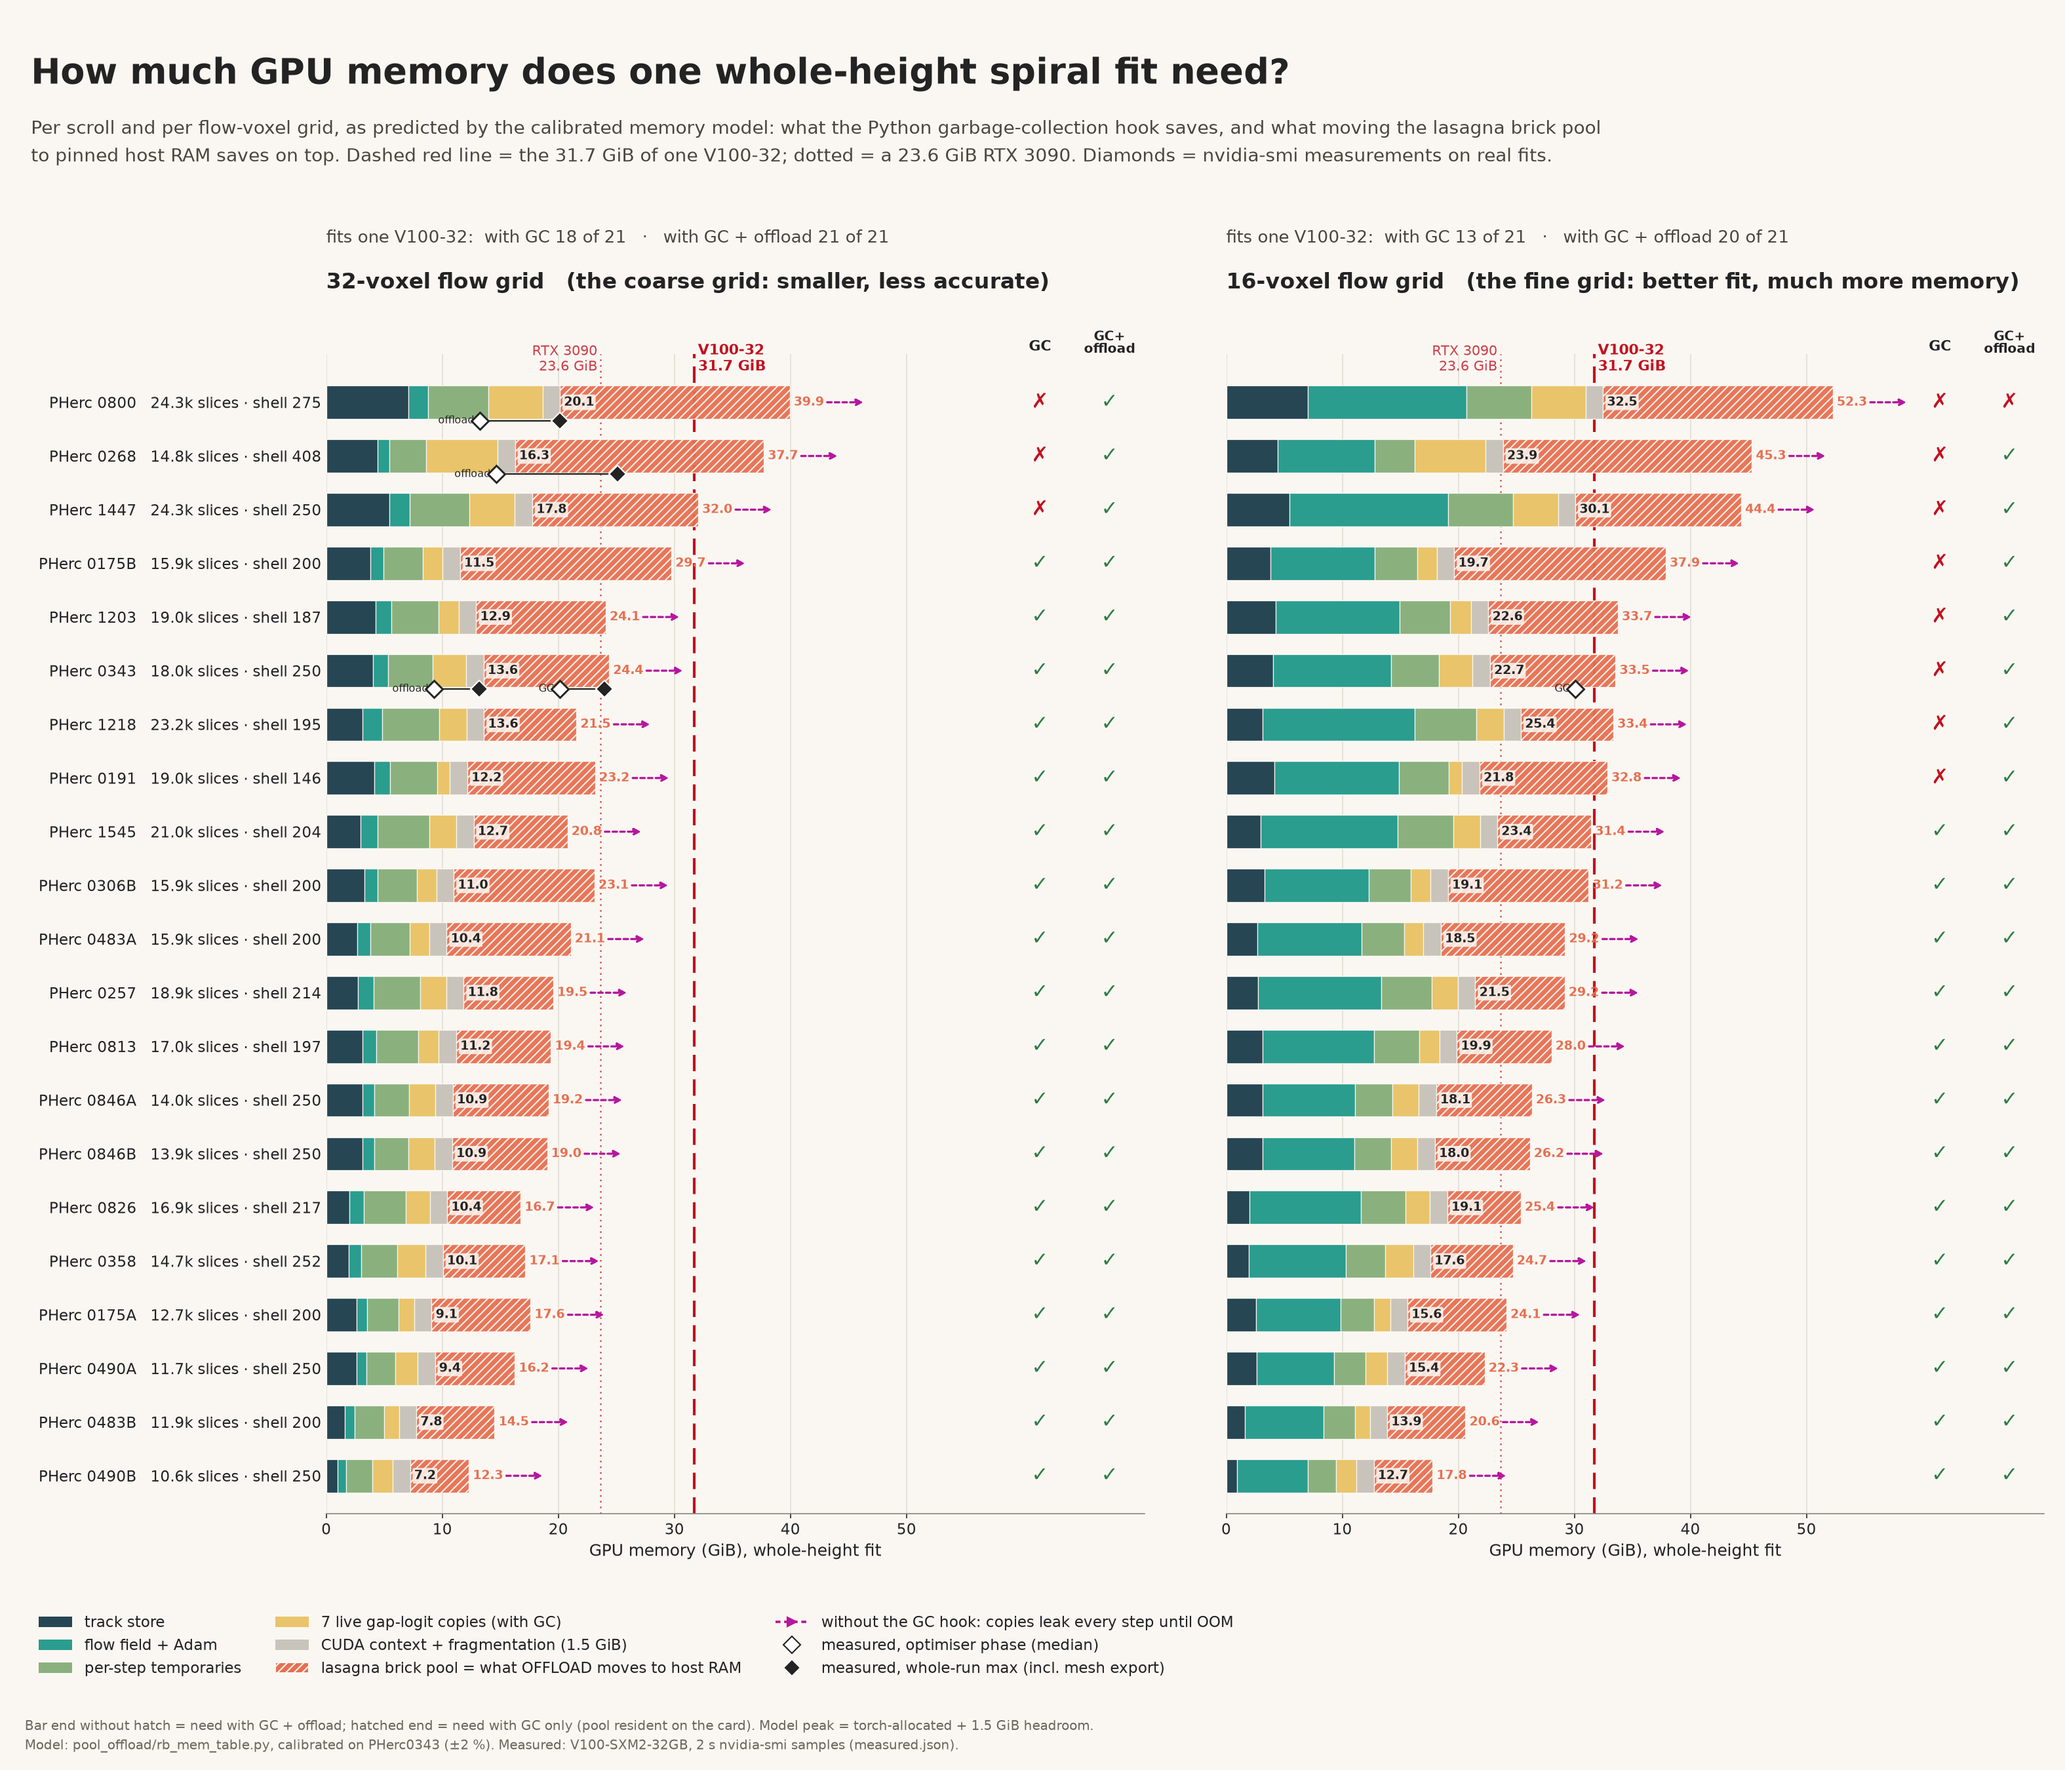
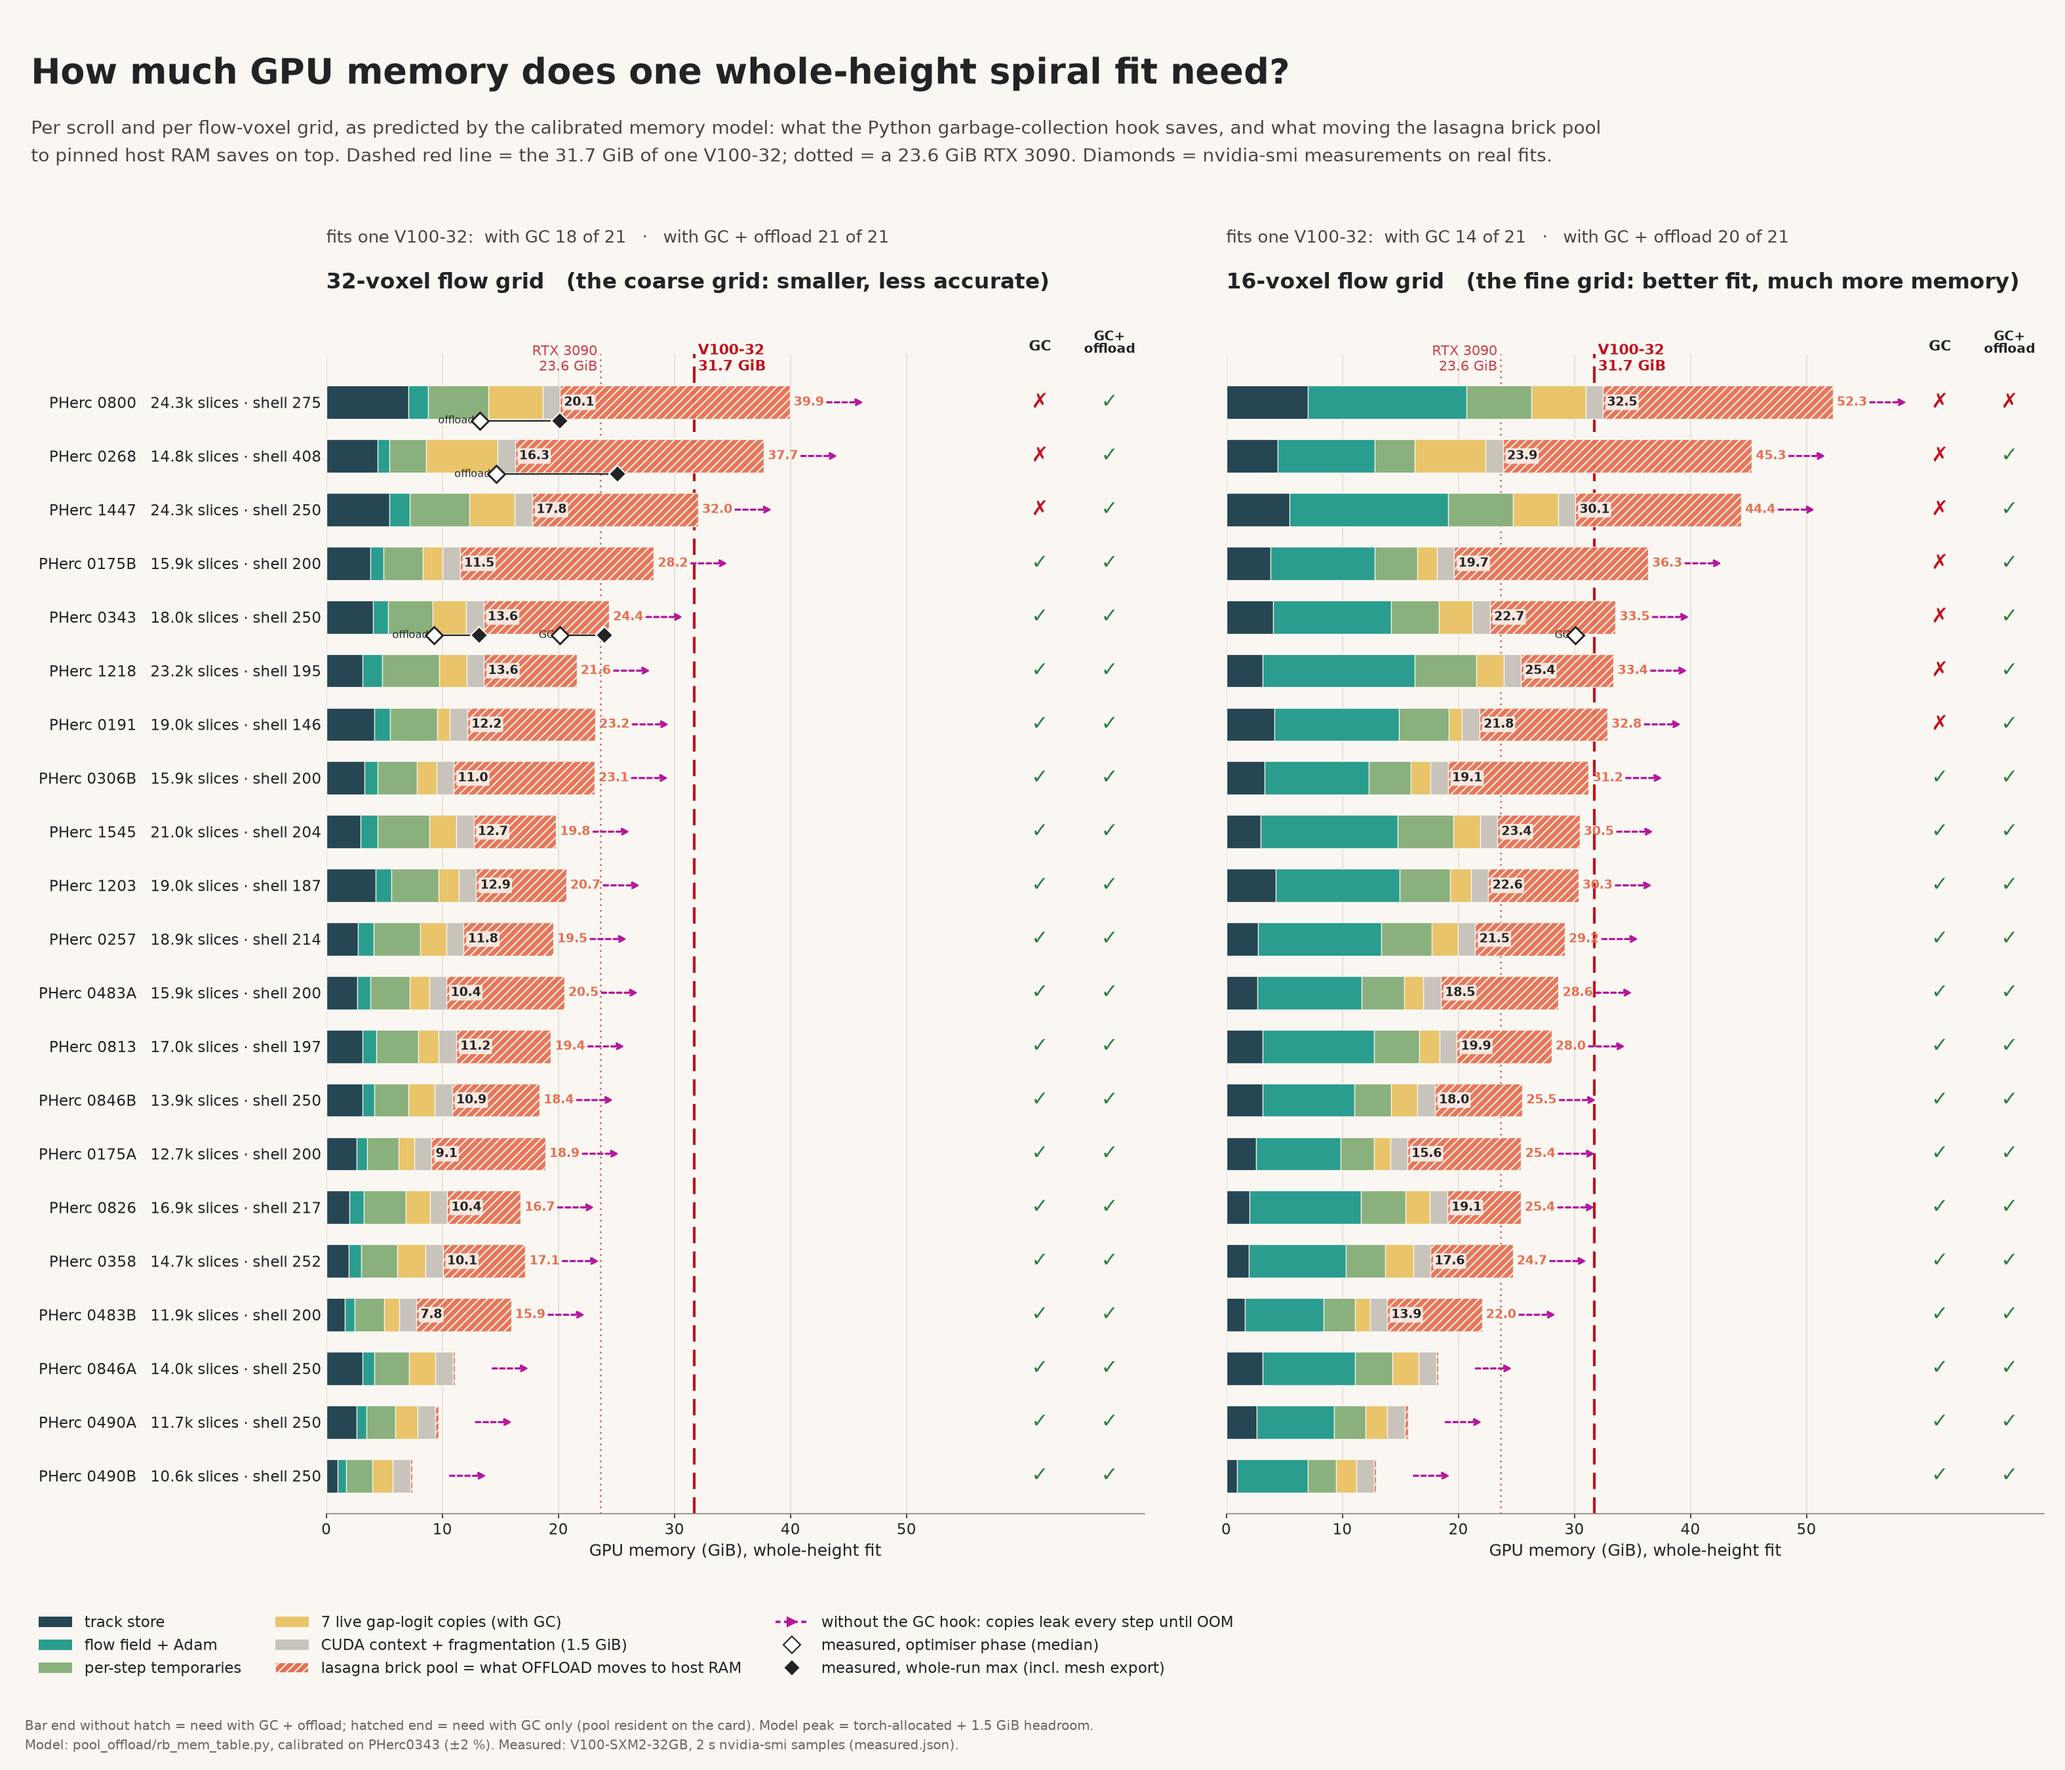
Use the measured lasagna pool sizes in the VRAM table; state what is measured and what is modelled
Claude-Session: https://claude.ai/code/session_0138LanbQgDJ4o1uV3upw4Fh

diff --git a/spiral-fitting/pool_offload/rb_mem_table.py b/spiral-fitting/pool_offload/rb_mem_table.py
@@ -50,27 +50,27 @@ def max_h(card, shell, r, pool_per_k, tracks_per_k):
 GiB = 2 ** 30
 SCROLLS = {
     # name: (H, shell, shell_source, pool_full_GiB, pool_source, cached_points_13000, it_per_s_box48)
-    "PHerc0175A": (12748, 200, "box default (not measured)", 142412 * 65536 / GiB * 12748 / 13000, "box packed x H/13000", 108880491, 3.9),
-    "PHerc0175B": (15897, 200, "box default (not measured)", 244005 * 65536 / GiB * 15897 / 13000, "box packed x H/13000", 128981872, 6.0),
+    "PHerc0175A": (12748, 200, "box default (not measured)", 9.79, "142 respool (measured file size)", 108880491, 3.9),
+    "PHerc0175B": (15897, 200, "box default (not measured)", 16.69, "142 respool (measured file size)", 128981872, 6.0),
     "PHerc0191": (18977, 146, "fits", 11.01, "142 respool", 117483137, 8.1),
     "PHerc0257": (18872, 214, "fits", 7.70, "142 respool", 77441982, 7.2),
     "PHerc0268": (14833, 408, "fits", 21.43, "142 respool", 159525449, 4.6),
     "PHerc0306B": (15898, 200, "box default (not measured)", 162412 * 65536 / GiB * 15898 / 13000, "box packed x H/13000", 110838913, 5.3),
     "PHerc0343": (17998, 250, "fits", 10.81, "142 respool (9.58 loaded for z 1200-17500)", None, None),
     "PHerc0358": (14744, 252, "fits", 7.09, "142 respool", 70785547, 5.6),
-    "PHerc0483A": (15898, 200, "box default (not measured)", 143172 * 65536 / GiB * 15898 / 13000, "box packed x H/13000", 90273138, 6.0),
-    "PHerc0483B": (11880, 200, "box default (not measured)", 120777 * 65536 / GiB * 11880 / 13000, "box packed x H/13000", 72811322, 7.2),
-    "PHerc0490A": (11698, 250, "fits (sense unknown)", None, "no store measured", None, None),
-    "PHerc0490B": (10648, 250, "fits (sense unknown)", 101238 * 65536 / GiB * 10648 / 13000, "box packed x H/13000", 47716502, 7.7),
+    "PHerc0483A": (15898, 200, "box default (not measured)", 10.13, "142 respool (measured file size)", 90273138, 6.0),
+    "PHerc0483B": (11880, 200, "box default (not measured)", 8.16, "142 respool (measured file size)", 72811322, 7.2),
+    "PHerc0490A": (11698, 250, "fits (sense unknown)", 0.29, "142 respool (measured file size)", None, None),
+    "PHerc0490B": (10648, 250, "fits (sense unknown)", 0.21, "142 respool (measured file size)", 47716502, 7.7),
     "PHerc0800": (24298, 275, "fits", 19.80, "142 respool", 155951965, 5.0),
     "PHerc0813": (16993, 197, "fits", 8.15, "142 respool", 98716648, 6.6),
     "PHerc0826": (16920, 217, "fits", 6.32, "142 respool", 64004220, 5.3),
-    "PHerc0846A": (14019, 250, "fits (sense unknown)", None, "no store measured", None, None),
-    "PHerc0846B": (13926, None, "none (no fit yet)", None, "no store measured", None, None),
-    "PHerc1203": (18977, 187, "queue", None, "no store measured", None, None),
-    "PHerc1218": (23247, 195, "queue (box used 200)", 72892 * 65536 / GiB * 23247 / 13000, "box packed x H/13000", 72842567, 6.5),
+    "PHerc0846A": (14019, 250, "fits (sense unknown)", 0.18, "142 respool (measured file size)", None, None),
+    "PHerc0846B": (13926, None, "none (no fit yet)", 7.53, "142 respool (measured file size)", None, None),
+    "PHerc1203": (18977, 187, "queue", 7.75, "142 respool (measured file size)", None, None),
+    "PHerc1218": (23247, 195, "queue (box used 200)", 7.98, "142 respool (measured file size)", 72842567, 6.5),
     "PHerc1447": (24297, None, "none (no fit yet)", None, "no store measured", None, None),
-    "PHerc1545": (20961, 204, "queue (box used 200)", 82097 * 65536 / GiB * 20961 / 13000, "box packed x H/13000", 75676636, 6.0),
+    "PHerc1545": (20961, 204, "queue (box used 200)", 7.09, "142 respool (measured file size)", 75676636, 6.0),
 }
 DEFAULT_POOL_PER_K = 9.58 / 16.3            # 343 measured, GiB per 1000 slices (used where no store was measured; announced)
 DEFAULT_TRACK_PER_K = 3.66 / 16.3

diff --git a/spiral-fitting/pool_offload/vram_table_public.md b/spiral-fitting/pool_offload/vram_table_public.md
@@ -1,23 +1,23 @@
 | scroll | slices | shell | pool GiB | 32-vox: no GC (OOM at iteration, model) | 32-vox GC GiB | 32-vox GC+offload GiB | 16-vox: no GC (OOM at iteration, model) | 16-vox GC GiB | 16-vox GC+offload GiB | fits V100-32 (32-vox: GC / GC+off; 16-vox: GC / GC+off) |
 |---|---|---|---|---|---|---|---|---|---|---|
-| PHerc0175A | 12,748 | 200 | 8.5 | ~38 | 17.6 | 9.1 | ~21 | 24.1 | 15.6 | ✓ / ✓; ✓ / ✓ |
-| PHerc0175B | 15,897 | 200 | 18.2 | ~5 | 29.7 | 11.5 | never starts | 37.9 | 19.7 | ✓ / ✓; ✗ / ✓ |
+| PHerc0175A | 12,748 | 200 | 9.8 | ~35 | 18.9 | 9.1 | ~18 | 25.4 | 15.6 | ✓ / ✓; ✓ / ✓ |
+| PHerc0175B | 15,897 | 200 | 16.7 | ~9 | 28.2 | 11.5 | never starts | 36.3 | 19.7 | ✓ / ✓; ✗ / ✓ |
 | PHerc0191 | 18,977 | 146 | 11.0 | ~29 | 23.2 | 12.2 | never starts | 32.8 | 21.8 | ✓ / ✓; ✗ / ✓ |
 | PHerc0257 | 18,872 | 214 | 7.7 | ~20 | 19.5 | 11.8 | ~5 | 29.2 | 21.5 | ✓ / ✓; ✓ / ✓ |
 | PHerc0268 | 14,833 | 408 | 21.4 | never starts | 37.7 | 16.3 | never starts | 45.3 | 23.9 | ✗ / ✓; ✗ / ✓ |
 | PHerc0306B | 15,898 | 200 | 12.1 | ~19 | 23.1 | 11.0 | ~2 | 31.2 | 19.1 | ✓ / ✓; ✓ / ✓ |
 | PHerc0343 | 17,998 | 250 | 10.8 | ~10 | 24.4 | 13.6 | never starts | 33.5 | 22.7 | ✓ / ✓; ✗ / ✓ |
 | PHerc0358 | 14,744 | 252 | 7.1 | ~22 | 17.1 | 10.1 | ~11 | 24.7 | 17.6 | ✓ / ✓; ✓ / ✓ |
-| PHerc0483A | 15,898 | 200 | 10.7 | ~23 | 21.1 | 10.4 | ~6 | 29.2 | 18.5 | ✓ / ✓; ✓ / ✓ |
-| PHerc0483B | 11,880 | 200 | 6.7 | ~49 | 14.5 | 7.8 | ~32 | 20.6 | 13.9 | ✓ / ✓; ✓ / ✓ |
-| PHerc0490A | 11,698 | 250 | 6.9 | ~30 | 16.2 | 9.4 | ~18 | 22.3 | 15.4 | ✓ / ✓; ✓ / ✓ |
-| PHerc0490B | 10,648 | 250 | 5.1 | ~40 | 12.3 | 7.2 | ~29 | 17.8 | 12.7 | ✓ / ✓; ✓ / ✓ |
+| PHerc0483A | 15,898 | 200 | 10.1 | ~24 | 20.5 | 10.4 | ~8 | 28.6 | 18.5 | ✓ / ✓; ✓ / ✓ |
+| PHerc0483B | 11,880 | 200 | 8.2 | ~45 | 15.9 | 7.8 | ~28 | 22.0 | 13.9 | ✓ / ✓; ✓ / ✓ |
+| PHerc0490A | 11,698 | 250 | 0.3 | ~42 | 9.7 | 9.4 | ~31 | 15.7 | 15.4 | ✓ / ✓; ✓ / ✓ |
+| PHerc0490B | 10,648 | 250 | 0.2 | ~50 | 7.4 | 7.2 | ~39 | 12.9 | 12.7 | ✓ / ✓; ✓ / ✓ |
 | PHerc0800 | 24,298 | 275 | 19.8 | never starts | 39.9 | 20.1 | never starts | 52.3 | 32.5 | ✗ / ✓; ✗ / ✗ |
 | PHerc0813 | 16,993 | 197 | 8.2 | ~26 | 19.4 | 11.2 | ~9 | 28.0 | 19.9 | ✓ / ✓; ✓ / ✓ |
 | PHerc0826 | 16,920 | 217 | 6.3 | ~26 | 16.7 | 10.4 | ~12 | 25.4 | 19.1 | ✓ / ✓; ✓ / ✓ |
-| PHerc0846A | 14,019 | 250 | 8.2 | ~20 | 19.2 | 10.9 | ~9 | 26.3 | 18.1 | ✓ / ✓; ✓ / ✓ |
-| PHerc0846B | 13,926 | 250 | 8.2 | ~21 | 19.0 | 10.9 | ~10 | 26.2 | 18.0 | ✓ / ✓; ✓ / ✓ |
-| PHerc1203 | 18,977 | 187 | 11.2 | ~16 | 24.1 | 12.9 | never starts | 33.7 | 22.6 | ✓ / ✓; ✗ / ✓ |
-| PHerc1218 | 23,247 | 195 | 8.0 | ~16 | 21.5 | 13.6 | never starts | 33.4 | 25.4 | ✓ / ✓; ✗ / ✓ |
+| PHerc0846A | 14,019 | 250 | 0.2 | ~33 | 11.1 | 10.9 | ~22 | 18.3 | 18.1 | ✓ / ✓; ✓ / ✓ |
+| PHerc0846B | 13,926 | 250 | 7.5 | ~22 | 18.4 | 10.9 | ~11 | 25.5 | 18.0 | ✓ / ✓; ✓ / ✓ |
+| PHerc1203 | 18,977 | 187 | 7.8 | ~23 | 20.7 | 12.9 | ~4 | 30.3 | 22.6 | ✓ / ✓; ✓ / ✓ |
+| PHerc1218 | 23,247 | 195 | 8.0 | ~16 | 21.6 | 13.6 | never starts | 33.4 | 25.4 | ✓ / ✓; ✗ / ✓ |
 | PHerc1447 | 24,297 | 250 | 14.3 | never starts | 32.0 | 17.8 | never starts | 44.4 | 30.1 | ✗ / ✓; ✗ / ✓ |
-| PHerc1545 | 20,961 | 204 | 8.1 | ~18 | 20.8 | 12.7 | ~1 | 31.4 | 23.4 | ✓ / ✓; ✓ / ✓ |
+| PHerc1545 | 20,961 | 204 | 7.1 | ~19 | 19.8 | 12.7 | ~3 | 30.5 | 23.4 | ✓ / ✓; ✓ / ✓ |

diff --git a/spiral-fitting/POOL_OFFLOAD.md b/spiral-fitting/POOL_OFFLOAD.md
@@ -20,6 +20,7 @@ allows `cuMemHostRegister` (the pool maps its page-locked memory into the card's
 
 ## What is measured, and where (provenance, stated plainly)
 
+* **What in the table is measured and what is modelled** (2026-11-16 audit): MEASURED are the lasagna brick pool sizes (the on-disk size of each scroll's respooled pool, `channel_0.u8` + `channel_1.u8`, 20 scrolls; an earlier version of this table used an estimate for 11 of them, which was off by up to 25x for PHerc0490B: 5.1 GiB estimated, 0.21 GiB measured), the scroll heights, and the five whole-height fits in `measured.json`. MODELLED are every per-scroll peak (the coefficients are calibrated on one scroll, PHerc0343), the track term of every scroll but PHerc0343 (cached points scaled from a 13,000-slice log; not re-measured), the shell index of the scrolls marked "not measured", and the number of iterations until a fit without the GC fix runs out of memory. Rows for scrolls without a measured pool (PHerc0306B, PHerc1447) are modelled from the PHerc0343 density and say so in `notes`.
 * **Per-scroll tables and chart** (`pool_offload/vram_table_public.md`, `vram_chart_public.png`): the memory model
   `peak = pool + tracks + flow*(H+320)/1000 + 7 gap copies + act*H/1000 + 1.5 GiB headroom`, calibrated on one scroll at full height
   (20.5 / 28.8 GiB predicted vs 20.1 / 28.2 GiB measured on a V100-32, 32- / 16-voxel flow grid, about 2 %). It is a model, not a
